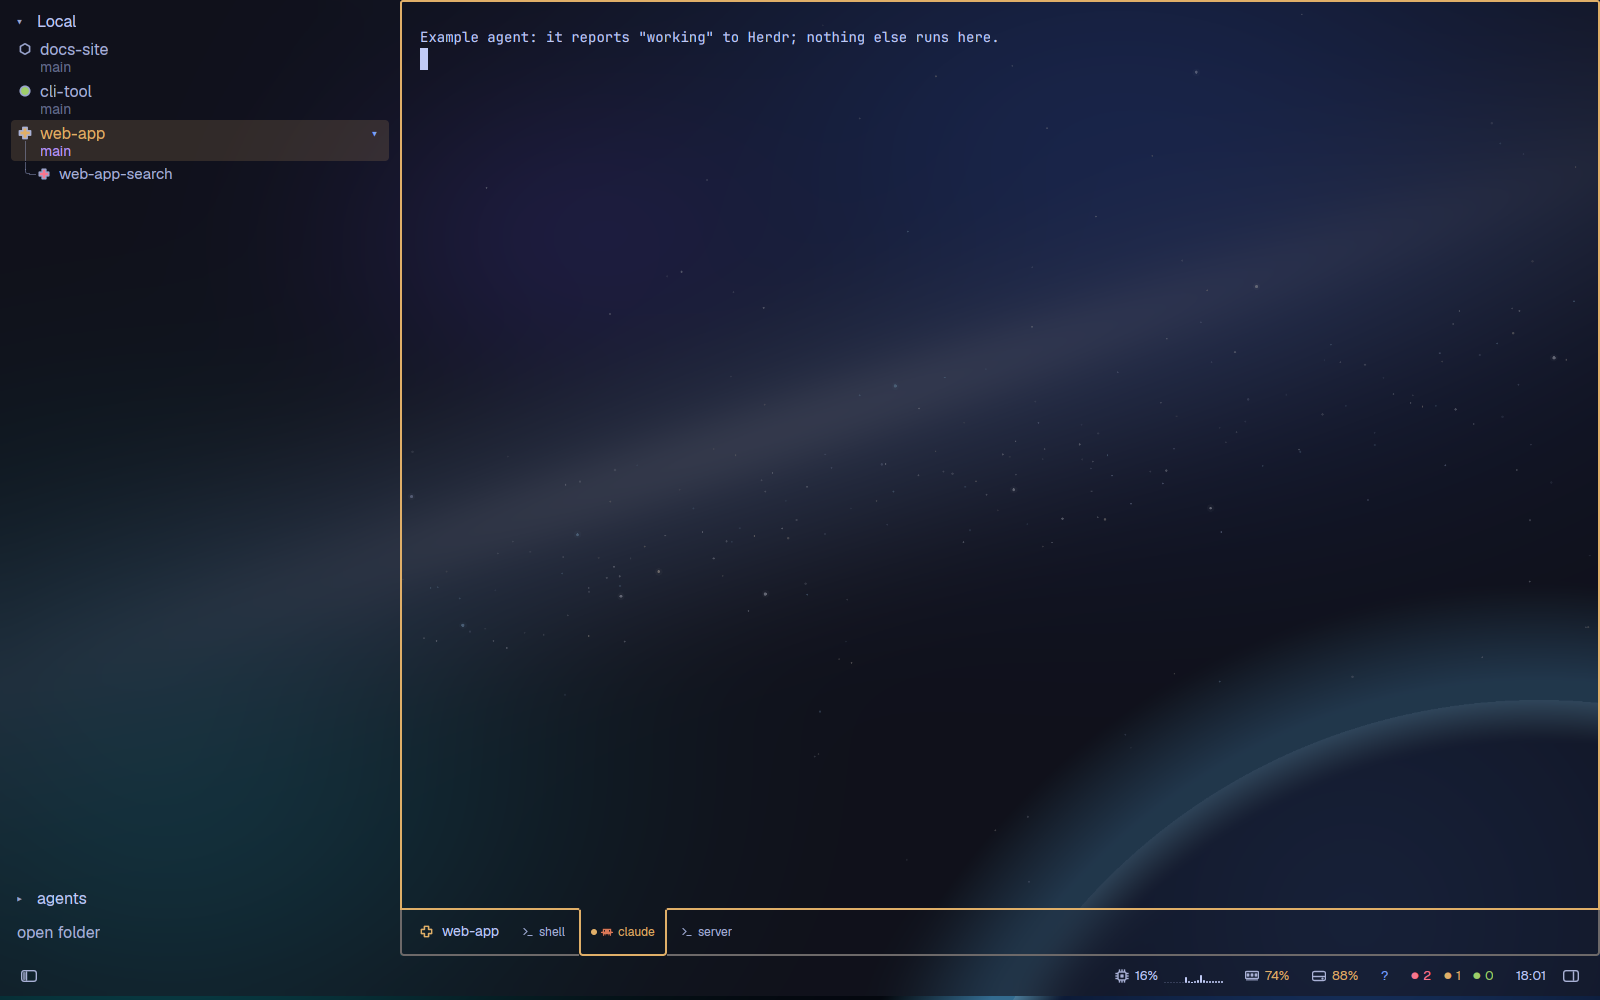
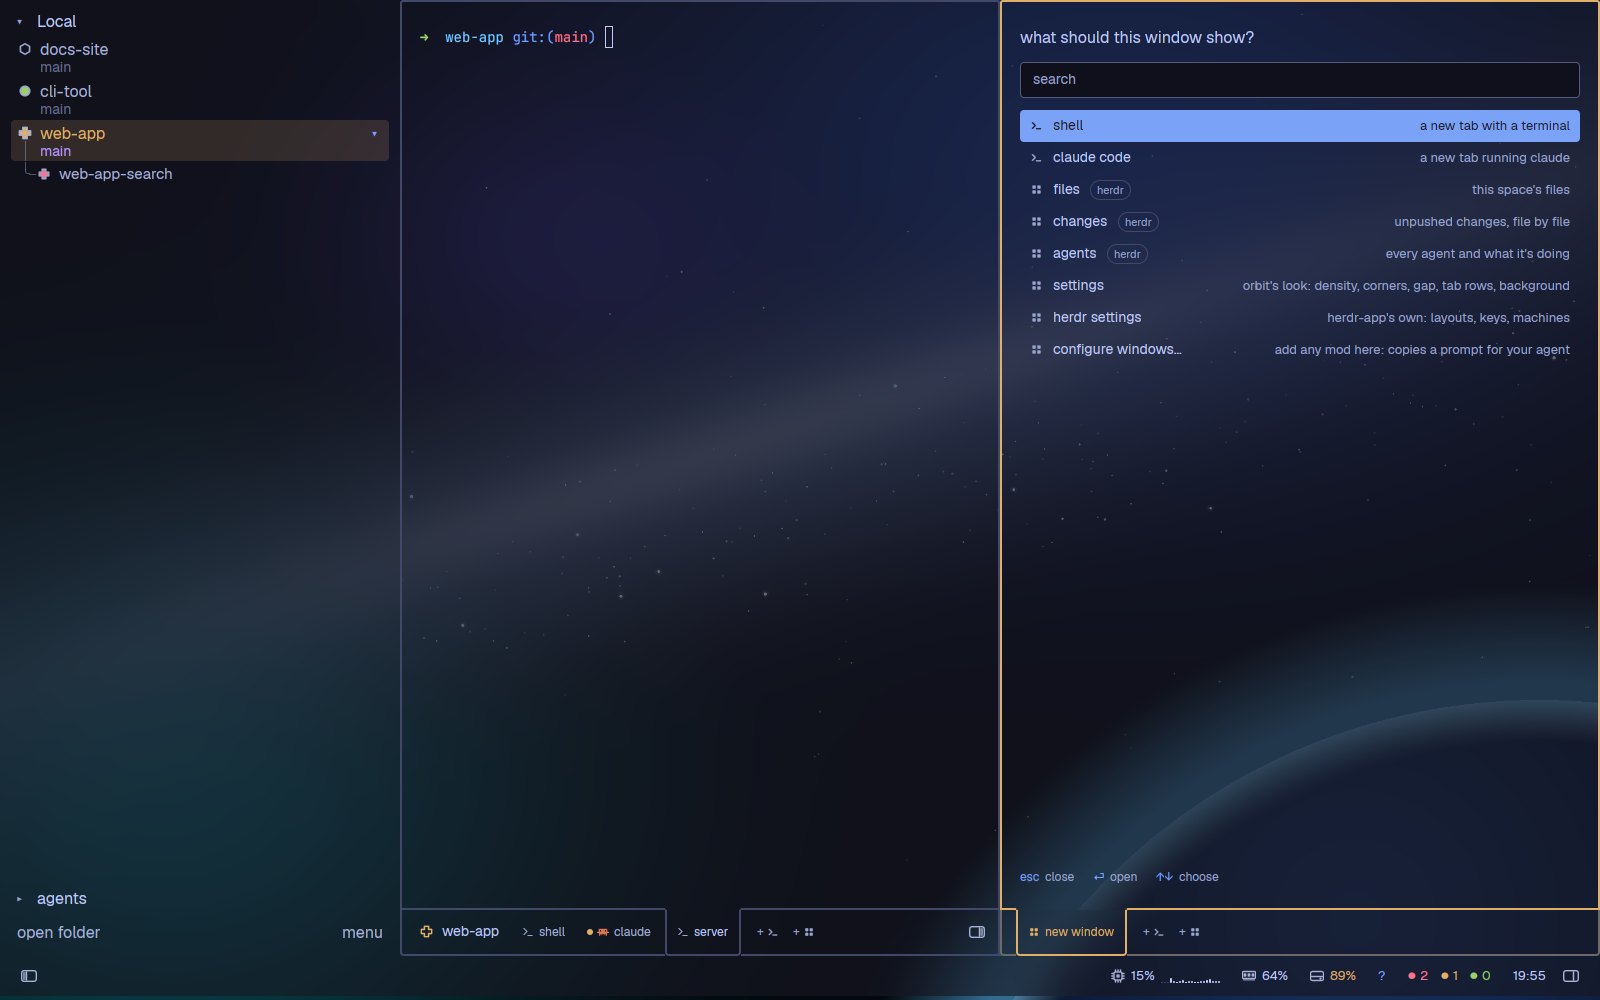
Version 3: preview with two panes and the picker; README and RECIPE: the settings, the themes and their credits, what the settings dialog runs, updating from version 2

diff --git a/mods/orbit/main.js b/mods/orbit/main.js
@@ -41,7 +41,7 @@ export const openSettings = () => openOverlay({ mod: "orbit-dialogs", kind: "dia
 
 // This build's version, also in shared "orbit.version" (shared.json in
 // herdr-app's home), so you can see which one you have.
-export const VERSION = 2;
+export const VERSION = 3;
 
 const RECENT = "orbit.recent";
 

diff --git a/RECIPE.md b/RECIPE.md
@@ -32,6 +32,20 @@ background `#161622`, surface `#161622`, border `#414868`, foreground
   `#7dcfff` cyan, `#9ece6a` green, `#e0af68` yellow, `#ff9e64` orange,
   `#f7768e` red) and one of 8 symbols (hexagon, triangle, square, circle, star,
   plus, cross, diamond, 16px SVGs, outlined and filled).
+- **Themes**: `orbit` above, and six variants with their own identity
+  colours (purple, cyan, green, yellow, orange, red), each known by its
+  accent:
+
+  | Theme | Accent | Identity colours |
+  |---|---|---|
+  | `orbit-catppuccin-mocha` | `#89b4fa` | `#cba6f7 #89dceb #a6e3a1 #f9e2af #fab387 #f38ba8` |
+  | `orbit-everforest` | `#a7c080` | `#d699b6 #83c092 #a7c080 #dbbc7f #e69875 #e67e80` |
+  | `orbit-gruvbox-dark` | `#83a598` | `#d3869b #8ec07c #b8bb26 #fabd2f #fe8019 #fb4934` |
+  | `orbit-kanagawa` | `#7e9cd8` | `#957fb8 #7fb4ca #98bb6c #e6c384 #ffa066 #e82424` |
+  | `orbit-nord` | `#88c0d0` | `#b48ead #8fbcbb #a3be8c #ebcb8b #d08770 #bf616a` |
+  | `orbit-rose-pine` | `#c4a7e7` | `#c4a7e7 #9ccfd8 #31748f #f6c177 #ebbcba #eb6f92` |
+
+  Any other theme: its ANSI 5, 6, 2, 3, 11, 1.
 - **Sidebar**, 400px wide (44–560), glass, square corners:
   - A header per machine, "Local" first: 27px, 16px semibold, a `▾`/`▸` fold
     (15px, muted). A machine that can't be reached shows "! attention" in red
@@ -84,7 +98,9 @@ background `#161622`, surface `#161622`, border `#414868`, foreground
   (herdr's files and changes to start with), framed like the panes, with a
   tab each in a row like theirs (an 11px ⠿ before each name), then `+ ⠿`.
 - **Dialogs and menus**, on the theme's surface at 95% with a 2px border and
-  radius 4: the close dialog (380×150: "close <name>?", "close" in red,
+  the corner radius: the settings (700×470: a 104px label column, then
+  32px toggles, the chosen one in accent; "orbit settings" and "esc close"
+  at the foot), the close dialog (380×150: "close <name>?", "close" in red,
   "keep"), the switcher (560 wide: "projects · N", then a 42px row per space
   with its symbol, name, machine and state), the "make tab N" prompt
   (420×250: a name field and a command field), and menus (240 wide on the
@@ -101,6 +117,23 @@ background `#161622`, surface `#161622`, border `#414868`, foreground
     red, or muted at 0; in progress: yellow; done: green), the clock (HH:MM),
     and the side panel toggle (the sidebar icon mirrored).
 - Under the status bar, a 4px block (the `orbit` mod, which draws nothing).
+- **The settings change the above** (defaults: comfortable, corners 4, no
+  gap, tab rows at the bottom, the generated picture). Densities:
+
+  | | corners | gap | tab row text | status bar | terminal padding | sidebar foot | sidebar scale |
+  |---|---|---|---|---|---|---|---|
+  | compact | 4 | 6 | 30 | 28 | `[8, 6]` | 67 | 0.9/1.15 |
+  | default | 12 | 10 | 38 | 34 | `[14, 12]` | 75 | 1/1.15 |
+  | comfortable | 16 | 14 | 46 | 40 | `[18, 16]` | 86 | 1 |
+
+  Corners (auto: the density's, or 0, 4, 8, 12) round the pane outlines,
+  their tab rows and, with a gap, the sidebar and status bar. The gap (auto,
+  none, 4, 8, 12, 16) sets the panels apart and from the window's edges; the
+  4px block under the status bar grows to it. Each pane's cap is corners + 2
+  tall and its tab row text + corners + 2. With the tab rows on top, each
+  pane's frame is upside down: its row on top, the shown tab open downwards,
+  its cap at the bottom. A picture of the person's replaces the background;
+  the glass over it is the plain surface at 62%.
 
 ## How it behaves
 
@@ -159,6 +192,15 @@ background `#161622`, surface `#161622`, border `#414868`, foreground
   Close, Hide the panel; middle-click `+ ⠿` hides the panel. Dragged narrower
   than 140px it closes and opens again at 280px; between 140 and 280 it
   springs back to 280px.
+- **Settings** (`ctrl-,`, or "settings" in the picker): each click applies at
+  once: the theme (herdr-app's `app.theme`, any window), density, corners,
+  gap, tab rows. "background…" opens a file dialog (KDE's `kdialog`, else
+  GNOME's `zenity`; from a toolbox or flatpak the host's through
+  `flatpak-spawn --host`; with neither, herdr-app's folder picker and the
+  folder's pictures as buttons); the picture is copied into
+  `backgrounds/` in herdr-app's home (a KDE wallpaper package named after the
+  package) and shows at once; "generated" puts the space picture back. Esc
+  closes.
 - **Sidebar menu**: Search, Settings, Add machine, New space (and New space
   on each connected machine), the shown space's Rename space, New worktree
   and Open worktree (in a git checkout), Remove worktree (in a linked one),
@@ -171,7 +213,8 @@ background `#161622`, surface `#161622`, border `#414868`, foreground
   `ctrl-shift-x` close; `alt-h`/`alt-left` and `alt-l`/`alt-right` the keys
   to the left or right pane; `alt-shift-h`/`alt-shift-l` move the shown
   terminal tab across; `ctrl-tab` the space shown before; `ctrl-shift-space`
-  the switcher (preselects the space before; ↑/↓ or Tab, 1-9 or Enter, Esc).
+  the switcher (preselects the space before; ↑/↓ or Tab, 1-9 or Enter, Esc);
+  `ctrl-,` the settings.
 - **The pane with the keys** follows clicks and herdr's focus; each space
   remembers its own, and a pane that's put away gives the keys to the left.
 - **Status bar**: the left button toggles the sidebar; hovering cpu, ram or
@@ -229,12 +272,23 @@ background `#161622`, surface `#161622`, border `#414868`, foreground
   - `defaults/orbit-windows.json`: `{ "windows": [] }`.
   - `orbit-dialogs`, opened with `props.dialog`: `menu` (derived from
     herdr-app's `menu` mod; icons from herdr's shipped `workspace-chrome`),
-    `confirm`, `switcher`, `new-tab`.
+    `confirm`, `switcher`, `new-tab`, `settings` (each change asked of the
+    `orbit` mod as `run("orbit.settings <JSON>")`; `orbit.settings` alone
+    opens it).
   - `orbit-spaces`: a restyled clone of herdr-app's `spaces` mod.
   - `orbit-tabs`: the panes' rows (`pane.js`, `props.stack` `left` /
     `right`) and the side panel's (`panel.js`, `props.stack: "panel-body"`).
-  - `orbit-sidebar-footer`, `orbit-status`, `orbit-edge` (the 6px cap with
-    `props.pane`; with no props it draws nothing).
+  - `orbit-sidebar-footer`, `orbit-status`, `orbit-edge` (the cap with
+    `props.pane`, rounded at its top, or its bottom with the rows on top;
+    with no props it draws nothing).
+  - `themes/orbit-*.json`: the six variants, the same keys as `orbit.json`.
+  - The settings in shared `"orbit.settings"`: `{ density, rounding, gap,
+    tabs, background, views }` (`null`: the density's). The `orbit` mod's
+    `layout.js` writes them into the layout (root `background`,
+    `terminal_padding`, `padding`; `body` gap and padding; `work` gap; the
+    `orbit` block's size; `status`, `sidebar-footer`; each frame's cap and
+    tab row sizes and order; the sidebar's radius with a gap) and shares the
+    look.
   - Only in `orbit`: `actions.js` (show, new, close, move, split, rename,
     reorder, the panel toggle), `layout.js` (the layout writer, the panel's
     views in shared `"orbit.settings".views`, the look and the tab rows'
@@ -256,20 +310,24 @@ background `#161622`, surface `#161622`, border `#414868`, foreground
 - **herdr API**: `spaces`, `panes`, `agents`, `machines`, `updates`,
   `layout`, `focused`, `theme`, `settings`, `shared`, `setShared`, `exec`,
   `hc`, `readTextFile`, `writeTextFile`, `watchFolder`, `appHome`, `home`,
-  `pickFolder`, `openOverlay`, `closeOverlay`, `run`, `window`, `nextCommand`,
+  `pickFolder`, `notify`, `openOverlay`, `closeOverlay`, `run`, `window`, `nextCommand`,
   `knownAgents`, `terminals`, `keys`. Commands: `space.select`, `space.move`,
   `space.new`, `space.rename`, `space.close`, `tab.new`, `tab.select`,
   `tab.move`, `tab.rename`, `tab.close`, `pane.focus`, `pane.split`,
   `pane.zoom`, `pane.close`, `terminal.right_click`, `terminal.park`,
   `layout.toggle`, `layout.show`, `layout.hide`, `layout.select`,
   `layout.resize`, `agent.focus`, `mod.open`, `app.help`, `app.settings`,
-  `app.update`. Shipped mods: `agents`, `files`, `changes`, `picker`,
+  `app.theme`, `app.update`. Shipped mods: `agents`, `files`, `changes`, `picker`,
   `machine-add`, `worktree`, `menu` (the space menu: `tab: "space"`).
 - **Programs**: `git status --porcelain=v2 --branch` and `git rev-parse` in
   each space's folder (on its machine), `hc machine ls --json`,
   `df -B1 --output=used,avail,size,target <home>`; files read: `/proc/stat`,
   `/proc/loadavg`, `/proc/meminfo`, `layouts/orbit.json`,
   `orbit-windows.json` (the picker's list: its entries run what they name).
+  The settings' "background…", only when clicked: `kdialog` or `zenity`
+  (maybe through `flatpak-spawn --host`), `mkdir`, `ls` (herdr's folder
+  picker's folder), `cp` into `backgrounds/`; it writes
+  `data/orbit-settings/picked`.
 - **Art**: `scripts/space.py` renders the background (procedural, seeded),
   `scripts/blur.py` its blurred copy, `scripts/glyphs.py` the 8 symbols in
   `mods/orbit-tabs/glyphs/`. The status bar's icons, the fillets and the ⠿
@@ -302,9 +360,22 @@ background `#161622`, surface `#161622`, border `#414868`, foreground
   the ones in their own column.
 - herdr's `files` and `changes` draw their own card inside the panel.
 - Linux only for cpu, ram and disk (`/proc`, `df`); elsewhere they're hidden.
-- The background picture's size (2560×1600) is written in `look.js`; another
-  picture needs its size there and a blurred copy.
-- Corners are radius 4 and the gap 0 in this build; there are no settings.
+- The generated picture's size (2560×1600) and its blurred copy are written
+  in `look.js` (`GENERATED`). A picture of the person's has no blurred copy:
+  the glass over it is the plain fill (`backdrop()` falls back, with the
+  same square and round corners).
+- The layout's root says `"theme": "orbit"`, but herdr-app's `app.theme`
+  wins: the settings' theme buttons and herdr's own settings both work, and
+  the space colours follow the theme's accent. A theme opened while a dialog
+  is open takes the keys: the settings dialog takes them back (Esc).
+- The background's file dialog runs on the person's desktop (from a
+  toolbox, the host's through `flatpak-spawn --host`), apart from herdr-app
+  (its `exec` stops a command after 30 s): the dialog writes its answer to a
+  file, which the settings wait for (`watchFolder`, up to 15 minutes).
+  herdr-app has no file picker for mods (only `pickFolder`), hence the
+  fallback. Say so in the person's terms before they click it.
+- A layout's background picture must be inside herdr-app's home: the chosen
+  picture is copied into `backgrounds/`, never referenced where it is.
 - **Merge `keys.json`**: add its `layout:orbit` section to the person's
   `keys.json`, asking before replacing a key they already use there.
 - A right-pane terminal is a herdr tab of its own: herdr shows it on the left
@@ -328,10 +399,11 @@ background `#161622`, surface `#161622`, border `#414868`, foreground
 - **Updating**: copies don't update themselves, and the add flow never
   overwrites (it would make `orbit-2`). To update, remove `layouts/orbit.json`,
   `layouts/orbit.svg`, `mods/orbit`, every `mods/orbit-*` (an older copy may
-  have more of them: `orbit-menu`, `orbit-nothing`, ... all go) and
-  `themes/orbit.json`, then copy the new ones in, and replace the
+  have more of them: `orbit-panel-tabs`, `orbit-nothing`: all go) and
+  `themes/orbit*.json`, then copy the new ones in, and replace the
   `layout:orbit` section of `keys.json` with the new one; leave the person's
-  other files and keys alone. This build is version 2 (`VERSION` in
+  other files and keys alone, the settings in `shared.json` and the
+  pictures in `backgrounds/`. This build is version 3 (`VERSION` in
   `mods/orbit/main.js`, shared `"orbit.version"`).
 
 ## Done when
@@ -367,3 +439,13 @@ background `#161622`, surface `#161622`, border `#414868`, foreground
 - An entry added to `orbit-windows.json` shows in the picker the next time it
   opens, and opens in that pane; "configure windows…" copies the prompt and
   shows the toast.
+- `ctrl-,` opens the settings. "top" puts every tab row on top, the shown
+  tab open downwards; a gap of 8 sets the sidebar, panes, panel and status
+  bar apart with rounded corners, their glass still lined up with the
+  picture; "compact" makes the rows and bar smaller; each applies at once
+  and stays after a restart.
+- Each theme button switches the theme, and the space colours follow it
+  (Nord: a yellow space is `#ebcb8b`); Esc still closes the dialog after.
+- A picture chosen with "background…" (or copied into `backgrounds/` and
+  set as `"background"`) shows behind everything, the glass over it plain;
+  "generated" brings the space back.

diff --git a/README.md b/README.md
@@ -7,7 +7,9 @@ This is an unofficial layout. It is not affiliated with or endorsed by Herdr.
 It uses only what herdr-app offers to everyone (a layout, mods and a theme)
 and doesn't change the app. Made for herdr-app 0.1.11.
 
-**Version 2** (stage 2: the interface). See [Updating](#updating).
+**Version 3**. See [Updating](#updating).
+
+![Orbit: the sidebar, two panes, the picker open in the right one](preview.png)
 
 ## Add it
 
@@ -25,7 +27,7 @@ section (those keys apply only while the orbit layout shows; see Keys), and
 pick the **orbit** layout in herdr-app's settings (or `ctrl-shift-l`).
 `ctrl-shift-l` switches back to your own layout; deleting the files removes it.
 Check a name isn't taken first: the layout is `orbit`, the mods are `orbit` and
-`orbit-*`, the theme is `orbit`.
+`orbit-*`, the themes are `orbit` and `orbit-*`.
 
 The picker's own list is `orbit-windows.json` in herdr-app's home (see the
 picker below). Without the file the list is empty; to start one, copy
@@ -46,23 +48,31 @@ it), or `VERSION` at the top of `mods/orbit/main.js`.
 Herdr's add flow never overwrites: adding this repo again would make a second
 copy (`orbit-2`, ...). To update, either:
 
-- tell your agent: "replace my orbit layout, the orbit-* mods and
-  themes/orbit.json with the latest from github.com/Calonca/herdr-orbit-look"
-  (it removes `layouts/orbit.json`, `layouts/orbit.svg`, `mods/orbit` and
-  `mods/orbit-*` and `themes/orbit.json` first, then copies the new ones and
+- tell your agent: "replace my orbit layout, the orbit-* mods and the
+  orbit themes with the latest from github.com/Calonca/herdr-orbit-look"
+  (it removes `layouts/orbit.json`, `layouts/orbit.svg`, `mods/orbit`, every
+  `mods/orbit-*` and `themes/orbit*.json` first, then copies the new ones and
   replaces the `layout:orbit` section of `keys.json`; your other files and
-  keys and `orbit-windows.json` stay as they are); or
+  keys, `orbit-windows.json` and the pictures in `backgrounds/` stay as they
+  are); or
 - run `./install.sh` from a fresh clone: it replaces what it installed before
   and moves anything else under the same names to a backup folder.
 
-Your clicks (sizes, what's shown) stay in `layouts/.state/`, and your
-`orbit-windows.json` is never replaced.
+Your clicks (sizes, what's shown) stay in `layouts/.state/`, your settings
+(`"orbit.settings"` in `shared.json`) stay, and your `orbit-windows.json` is
+never replaced.
+
+Version 3 adds the settings, the six themes and the `ctrl-,` key. From
+version 1, two mods go: `orbit-panel-tabs` and `orbit-nothing` (now part of
+`orbit-tabs` and `orbit-edge`).
 
 ## What you see
 
 - **Background**: a generated space picture (`mods/orbit/backgrounds/`), with
   the sidebar, the pane, its tab row and the status bar as glass over it: the
   theme's surface, a little see-through, over a blurred copy of the picture.
+  A picture of your own can replace it (settings); the glass over it is the
+  plain see-through surface, without the blur.
 - **Space colours**: every space gets one of six colours and one of 8 symbols
   from a hash of its name; a git worktree and the main checkout it belongs to
   share their repo's. The pane's outline, its tab row and the space's row in
@@ -110,14 +120,22 @@ Your clicks (sizes, what's shown) stay in `layouts/.state/`, and your
   the panel moves the coloured outline there.
 - **Menus and dialogs** (`orbit-dialogs`): the sidebar's "menu" (search,
   settings, add machine, new space, the space's rename, worktrees and close,
-  keybinds), a tab's menu, the close dialog, the switcher of recent spaces and
-  the "make tab N" prompt.
+  keybinds), a tab's menu, the close dialog, the switcher of recent spaces,
+  the "make tab N" prompt, and the settings.
+- **Settings** (`ctrl-,`, or "settings" in the picker): the theme, density
+  (compact, default, comfortable), corners, the gap between the panels, the
+  tab rows at the bottom or on top, and the background picture. They apply
+  at once and are kept in `shared.json` (`"orbit.settings"`).
 - **Status bar** (`orbit-status`): the sidebar toggle, "herdr offline" while
   the core can't be reached, folded tabs and an update pill on the left; on
   the right cpu (with a 20 s sparkline), ram and disk use (yellow from 70%,
   red from 90%, details on hover), `?` for the shortcuts, what needs you /
   runs / is done, the clock and the side panel toggle.
-- **Theme** `orbit` (Tokyo Night colours), JetBrains Mono in terminals.
+- **Themes**: `orbit` (Tokyo Night colours), and six variants: Catppuccin
+  Mocha, Everforest, Gruvbox Dark, Kanagawa, Nord and Rosé Pine
+  (`themes/orbit-*.json`), each with its own six space colours. Pick one in
+  the settings or in herdr-app's (any other theme works too: the space
+  colours are then its ANSI colours). JetBrains Mono in terminals.
 
 ## Keys
 
@@ -134,6 +152,7 @@ Your clicks (sizes, what's shown) stay in `layouts/.state/`, and your
 | `alt-shift-h`, `alt-shift-l` | move the shown terminal tab to the other pane |
 | `ctrl-tab` | back to the space shown before this one |
 | `ctrl-shift-space` | the recent spaces, most recent first (↑/↓ or Tab, 1-9 or Enter, Esc) |
+| `ctrl-,` | the settings |
 
 They are commands of the `orbit` mod (`orbit.<name>`); its header lists the
 rest (`orbit.split`, `orbit.side-panel`, `orbit.add`, `orbit.window`).
@@ -145,9 +164,16 @@ sidebar, `ctrl-shift-l` the layout).
 - `orbit-spaces` runs `git status` and `git rev-parse` in each space's folder
   (on that space's machine), runs `hc machine ls`, and watches local repos'
   git folders for changes.
-- `orbit-tabs` runs `git rev-parse` in each space's folder, so a worktree gets
-  its repo's colour; `orbit-sidebar-footer` and `orbit-dialogs` (the menu) run it to offer
-  the worktree items.
+- `orbit` runs `git rev-parse` in each space's folder, so a worktree gets its
+  repo's colour; `orbit-sidebar-footer` and `orbit-dialogs` (the menu) run it
+  to offer the worktree items.
+- `orbit-dialogs` (the settings), only when you click "background…": runs
+  KDE's `kdialog` or, without it, GNOME's `zenity` to open a file dialog
+  (from a toolbox or a flatpak, the host's, through `flatpak-spawn --host`);
+  with neither, it opens herdr-app's folder picker and lists the pictures in
+  the folder you pick (`ls`). The picture you choose is copied (`cp`) into
+  `backgrounds/` in herdr-app's home, and the dialog's answer goes through
+  `data/orbit-settings/` there. Theme buttons run herdr-app's `app.theme`.
 - `orbit-add` asks herdr-app which coding agents are installed
   (`knownAgents`), and reads `orbit-windows.json` from herdr-app's home each
   time it shows: what that file lists opens or runs when you pick it (a mod,
@@ -156,8 +182,8 @@ sidebar, `ctrl-shift-l` the layout).
 - `orbit-status` reads `/proc/stat`, `/proc/loadavg` and `/proc/meminfo`, and
   runs `df` on your home folder every 30 s.
 - `orbit` reads and writes `layouts/orbit.json` in herdr-app's home: it puts
-  the shown theme's glass colours, the space's outline colour, the right
-  pane's terminals and views and the side panel's views there.
+  the settings, the shown theme's glass colours, the space's outline colour,
+  the right pane's terminals and views and the side panel's views there.
 - None of them uses the network.
 
 ## Files
@@ -176,7 +202,7 @@ sidebar, `ctrl-shift-l` the layout).
   the copies are the same file. What every mod would otherwise work out
   again (each space's colour and symbol, the look, where the tab rows sit)
   the `orbit` mod works out once and shares.
-- `themes/orbit.json`
+- `themes/orbit.json` and the six `themes/orbit-*.json`
 - `keys.json`: the keys, to merge into herdr-app's
 - `defaults/orbit-windows.json`: an empty list for the picker, to copy into
   herdr-app's home when you have none
@@ -188,6 +214,19 @@ sidebar, `ctrl-shift-l` the layout).
 - The `orbit` theme's colours are the Tokyo Night palette by Enkia
   ([tokyo-night-vscode-theme](https://github.com/tokyo-night/tokyo-night-vscode-theme),
   MIT).
+- The six variants' colours are each palette's own:
+  - Catppuccin Mocha by Catppuccin, [catppuccin/catppuccin](https://github.com/catppuccin/catppuccin)
+    ([MIT](https://github.com/catppuccin/catppuccin/blob/main/LICENSE));
+  - Everforest by sainnhe, [sainnhe/everforest](https://github.com/sainnhe/everforest)
+    ([MIT](https://github.com/sainnhe/everforest/blob/master/LICENSE));
+  - Gruvbox Dark by morhetz, [morhetz/gruvbox](https://github.com/morhetz/gruvbox)
+    (MIT/X11, as its README states; the repo has no license file);
+  - Kanagawa by Tommaso Laurenzi, [rebelot/kanagawa.nvim](https://github.com/rebelot/kanagawa.nvim)
+    ([MIT](https://github.com/rebelot/kanagawa.nvim/blob/master/LICENSE));
+  - Nord by Sven Greb, [nordtheme/nord](https://github.com/nordtheme/nord)
+    ([MIT](https://github.com/nordtheme/nord/blob/develop/license));
+  - Rosé Pine by mvllow, [rose-pine/rose-pine-palette](https://github.com/rose-pine/rose-pine-palette)
+    ([MIT](https://github.com/rose-pine/rose-pine-palette/blob/main/LICENSE)).
 - The space background is generated by `scripts/space.py` (procedural:
   gradients, seeded stars, a planet), not a photo or a third-party image;
   `scripts/blur.py` makes its blurred copy. Both scripts reproduce the files
